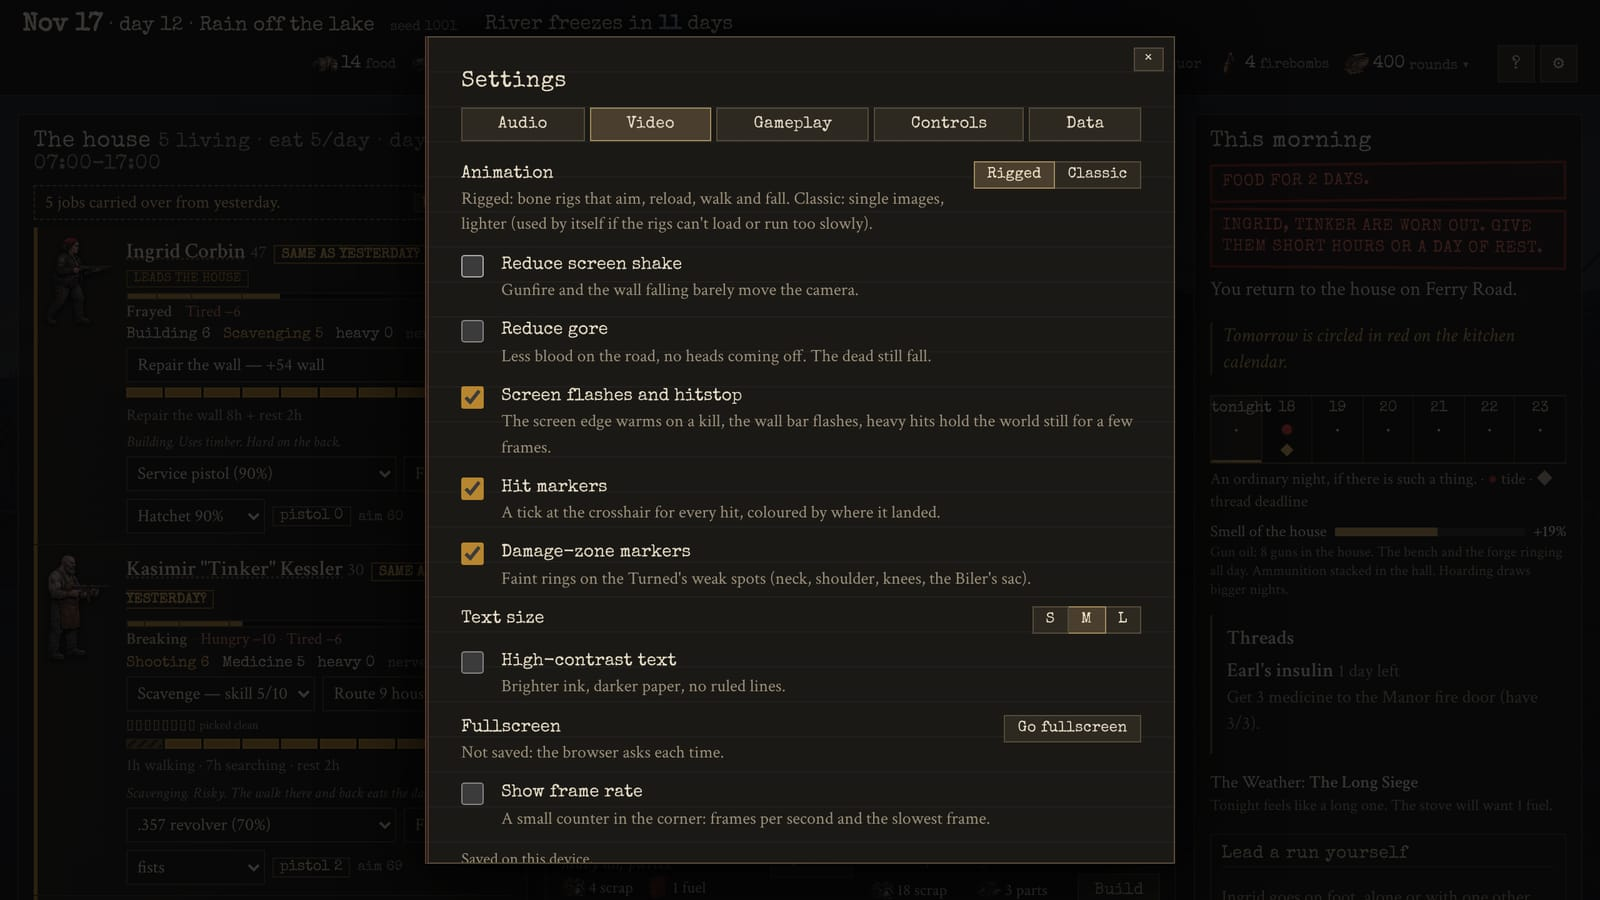
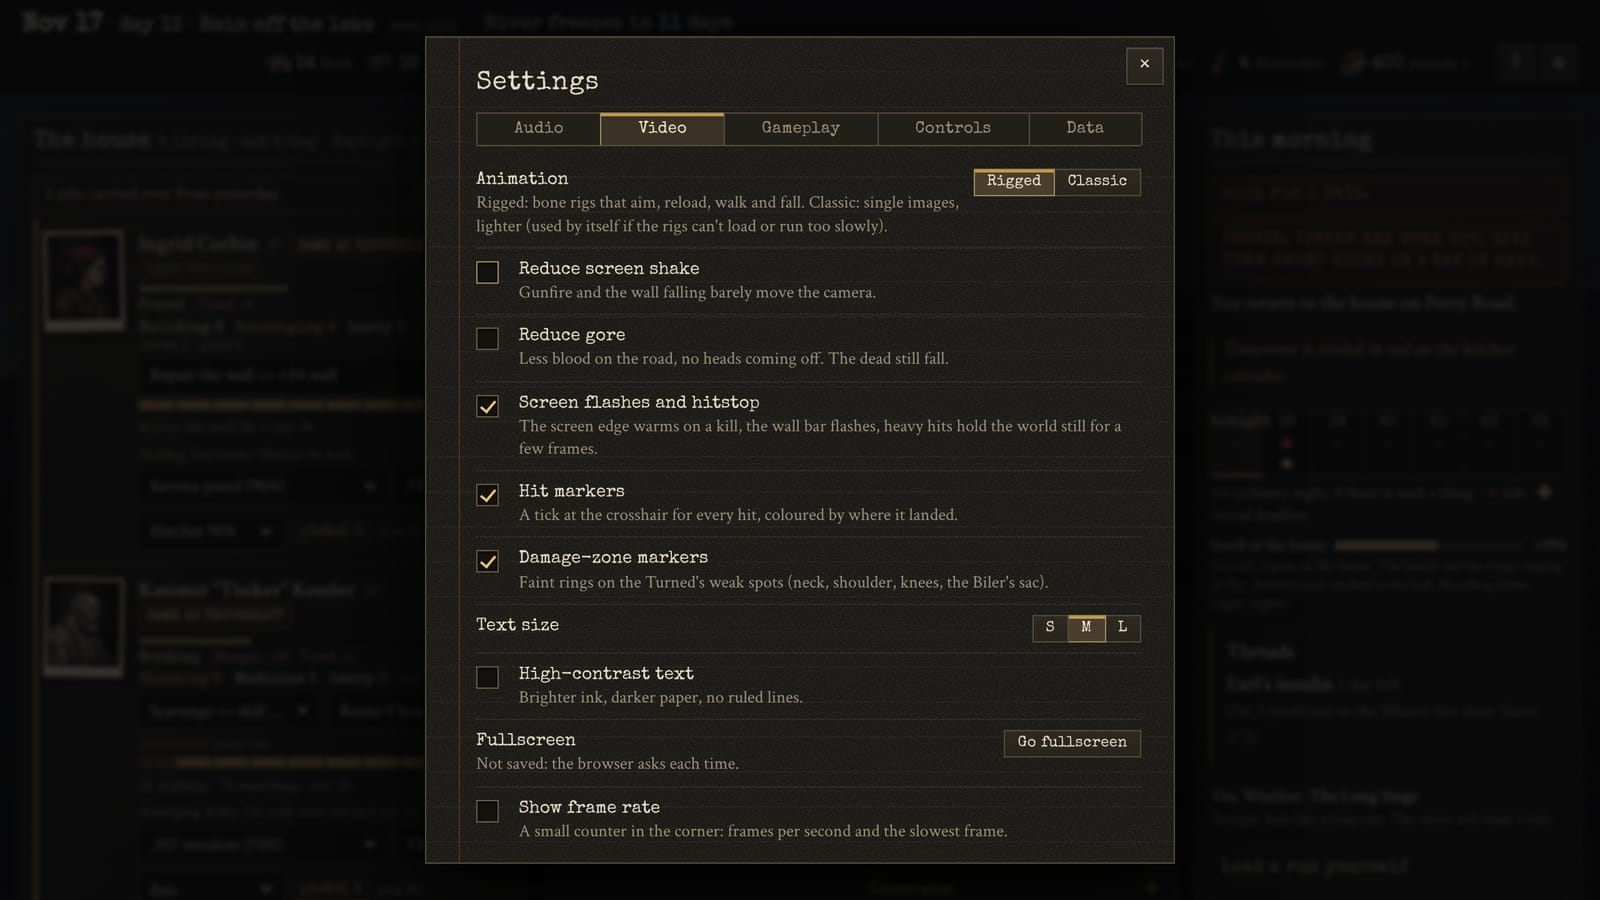
Docs: graphics audit round 1 (docs/gfx-audit.md); README screenshots of the ledger screens retaken
Claude-Session: https://claude.ai/code/session_01BpmvtS4bsapJPSRAWVjKg6

diff --git a/docs/gfx-audit.md b/docs/gfx-audit.md
@@ -1,0 +1,45 @@
+# Graphics audit: round 1 (the non-night screens)
+
+**Method.** I staged a day-12 save and a day-24 save with `tools/stage-save.ts`, plus a fresh game. I drove each screen with Playwright using the debug handles (`__G`, `__story`, `window.__battle`). Every screen was captured at 1280×720, 1920×1080 and 390×844 at deviceScaleFactor 2, then inspected, fixed and captured again.
+
+**Screens covered.** Title (with its Ledger, seed row and the Daily), settings (all five tabs), the help ledger (all five pages), and day one with the onboarding hints. The day ledger: every tab, the calendar, threads, the hours strips, the warnings and the run planner. Also the survivor sheet, five incident modals, dusk, the deploy step, the pause menu, both dawn stages, the four endings, the crossing choice and the game-over memorial.
+
+**Out of scope for round 1.** The night and the run canvases, world sprites and rigs belong to two other agents. `deploy.ts` is theirs too: only its page wrapper and its CSS were touched here.
+
+Severity: **H** = looks broken or unfinished, **M** = clearly below the bar, **L** = polish.
+
+| Screen | Sev | Issue | Fix |
+|---|---|---|---|
+| Survivor cards, sheet, graves, dawn, end cards | H | The "portraits" were full-body side-view sprites squeezed into 56×84. The faces were about 8 px and guns stuck out of the frame. | Bust portraits are now cut from the 1408×768 original generations: keyed, cropped to head and shoulders, set on a lit, grained ground with a vignette (`tools/make-portraits.py` → `public/art/port_*.jpg`, 13 files). They show as pinned photographs on cards (64×80), the sheet (128×160), graves, dawn and the end screens. The dead are drawn in sepia-grey. `src/ui/portrait.ts` falls back to the sprite if a portrait is missing. |
+| Every select | H | Native OS dropdowns with a white system chevron that clashed with the ledger. | `appearance:none` ink field, inset shadow, brass caret, hover and disabled states, ellipsis. |
+| Settings › audio | M | Native range sliders. | Ten-tick ledger track, brass fill (`--p` driven from `settings.ts`) and a brass slug thumb. Checkboxes are ink boxes with a pencil tick. |
+| Incident modals | H | Plain dark box, the same as every other modal. The research doc asks for found documents. | Rendered as light ruled paper: red margin line, paper clip, water stains, grain, ink text. Choices read as tick-box lines (☐ → ☒ on hover). |
+| Title | M | Flat purple cloud sky with no subject. | Generated key art: the brick house on Ferry Road at dusk, the mill, the river and the dead on the road. It has a slow Ken Burns drift, falls back to `bg_far` (the town), uses a lighter vignette, and the persona cards are lifted with backdrop blur and a hover rise. |
+| Epilogue / crossing / game over | H | Left-aligned text on black, inline styles, nothing to look at. | A painted plate for each ending (ferry, mill, spring, ice; fell for the memorial), each falling back to a graded `bg_far` or `bg_mid`. The title sits on the plate, the opening paragraph has a drop cap, the score card is a ledger with a double-ruled total and a brass score, and the fate cards carry portraits. The buttons are classes now, not inline styles. |
+| Day: workshop | H | The recipe column made the page about 8000 CSS px tall at 1280 (16000 at DPR 2). | Tighter recipe rows (grid with costs inline). On desktop the recipe column scrolls inside the panel with a fade mask. The page is now about 950 px. |
+| Day: survivor cards | M | The "same as yesterday?" tag broke across two lines. Names were underlined links. | Tags use nowrap and the name row is a flex wrap. Names have a dotted underline that goes brass on hover. |
+| Day: tabs (centre, help, settings) | M | Loose buttons with no sense of a selected page. | Joined tab strip on a rule line. The active tab has a brass top edge. Labels are capitalised. |
+| Day: panels | L | Flat translucent boxes. | Paper grain, an inner highlight, a drop shadow and double-ruled panel headers. |
+| Day: wall tab | L | Default disc bullets. | Ledger rows with an em-dash marker and type-face figures. |
+| Day: armory | M | Zero-stock ammo shown in alarm red: the list read as a wall of red. The stats line was 11 px. | Zero stock is now dim. Stats are 12 px. Gun icons sit on a faint light pool. |
+| Icons (stores, costs, armory) | M | Dark gunmetal icons vanished on dark paper at 20 px. | A hairline light halo plus a contact shadow. Store icons are 22 px. The icon set itself is consistent: no icons drawn as people. |
+| Onboarding hint | L | The paper clip covered the hint title. | More top padding. The note now uses the same grained ruled paper as the documents. |
+| Help › The Turned | L | "from day 999" shown for the special-night Turned. | Reads "special nights". |
+| Title › Ledger | L | A 🔒 emoji (colour glyph) in a monochrome ledger. | A plain ☐ in the disabled state. |
+| Pause | L | Off-centre (the margin padding was on one side only). | Symmetric padding and a spaced-caps header. |
+| Dawn | L | The tally wrapped to two rows on phones, leaving a hole. | Always three columns, with smaller labels on phones. Numbers are 34 px and centred. |
+| Dusk deploy page | M | Three cards on flat black. The post selects were misaligned because each sat after a different gun name. The "guns" card used inline flex styles. | The town backdrop sits behind, cards stack in one column with shadows, post rows use a grid, crew labels use the type face, and headers wrap on phones. |
+| Settings / help on phones | M | The five tabs wrapped, leaving "Data" alone on a second row. | The tab strip scrolls horizontally on phones. |
+| End screens | L | The body grain stopped after the first viewport, leaving a seam. | The grain moved to `html`. |
+| Modals | L | Popped in. | A 0.2 s rise and fade. The backdrop blurs and desaturates the page. Reduced-motion users get no animation. |
+
+## Art spend
+These went through OpenRouter (`google/gemini-3.1-flash-lite-image`) with `tools/gen-art.ts` and `tools/art.json`: six images at about $0.034 each, **about $0.20** in total. They are `key_title` and `end_ferry`, `end_mill`, `end_spring`, `end_ice` and `end_fell`. The 13 portraits cost nothing: they are cut from existing generations.
+
+## Left for round 2
+- **Night and run HUD over the dawn report.** Behind the dawn modal, the staged capture shows "−999999914 still out there". That comes from forcing `spawnIdx = 1e9` in the capture script, not from the game. Even so, the HUD counter should clamp at 0.
+- **Deploy planner internals** (`deploy.ts`, owned by the world-objects agent). On phones the kit buttons lose their labels and show only an icon and a count. The road strip is a flat gradient.
+- **Turned thumbnails in the help ledger** are tiny full-body sprites. Once the rigs settle, they could use bust crops the way the survivors now do.
+- **Survivor sprite reuse.** Two founders can share a sprite, and therefore a portrait: Renee and Colette in the day-24 save. More survivor generations would fix it. That needs new world sprites, so it belongs to the other agents.
+- **Survivor sheet.** The middle and right columns are short while the left column (skills) runs long. A two-column layout at 1280+ would balance it.
+- **Score card.** At desktop width there is empty space to the right of the score card. It could sit beside the fates, or the chronicle could move up.
